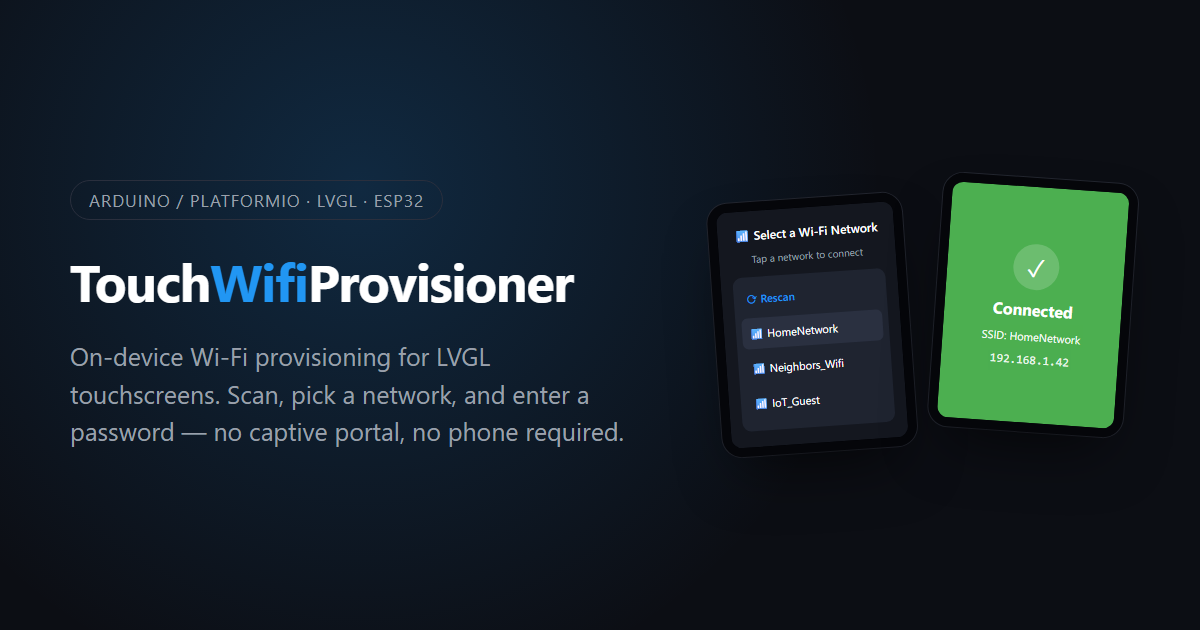
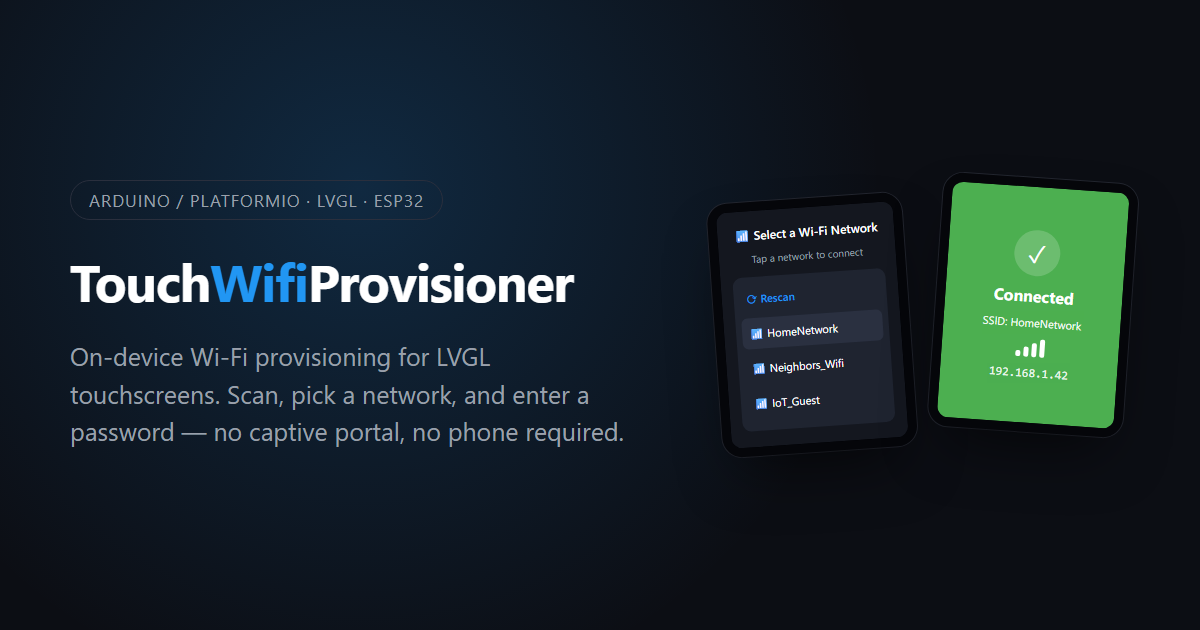
Show signal bars in mockups; sharpen the "Try it now" CTA
Landing page and OG image now show the 4-bar signal icon next to SSID,
matching what the firmware actually renders. Button copy changed to
"Try it now - just flash it!" with a hover tooltip spelling out that
no Arduino IDE or PlatformIO is needed - "no install needed" undersold
how different this path is from the other CTAs next to it.

Changed region(s): [[0.8017, 0.3619, 0.8942, 0.6032]]

diff --git a/docs/index.html b/docs/index.html
@@ -236,6 +236,22 @@
   .connected-screen .ssid { font-size: 13px; opacity: 0.95; }
   .connected-screen .ip { font-size: 13px; opacity: 0.9; font-family: monospace; }
 
+  .signal-bars {
+    display: flex;
+    align-items: flex-end;
+    gap: 3px;
+    height: 20px;
+  }
+  .signal-bars span {
+    width: 6px;
+    background: white;
+    border-radius: 2px;
+  }
+  .signal-bars span:nth-child(1) { height: 7px; }
+  .signal-bars span:nth-child(2) { height: 11px; }
+  .signal-bars span:nth-child(3) { height: 15px; }
+  .signal-bars span:nth-child(4) { height: 20px; }
+
   .mockup-note {
     text-align: center;
     color: var(--text-muted);
@@ -300,8 +316,8 @@
       no captive portal, no phone required.
     </p>
     <div class="cta-row">
-      <a class="btn btn-primary" href="flash.html">
-        ⚡ Try it now &mdash; no install needed
+      <a class="btn btn-primary" href="flash.html" title="No Arduino IDE or PlatformIO needed - flashes straight from your browser over USB.">
+        ⚡ Try it now &mdash; just flash it!
       </a>
       <a class="btn btn-ghost" href="https://github.com/Grey-Lancaster/TouchWifiProvisioner">
         View on GitHub
@@ -344,6 +360,7 @@
             <div class="check">✓</div>
             <div class="title">Connected</div>
             <div class="ssid">SSID: HomeNetwork</div>
+            <div class="signal-bars"><span></span><span></span><span></span><span></span></div>
             <div class="ip">192.168.1.42</div>
           </div>
         </div>